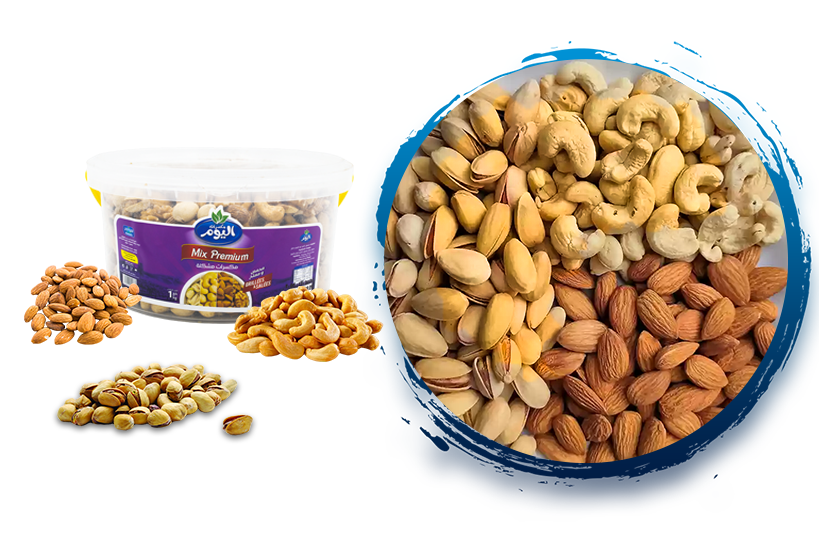
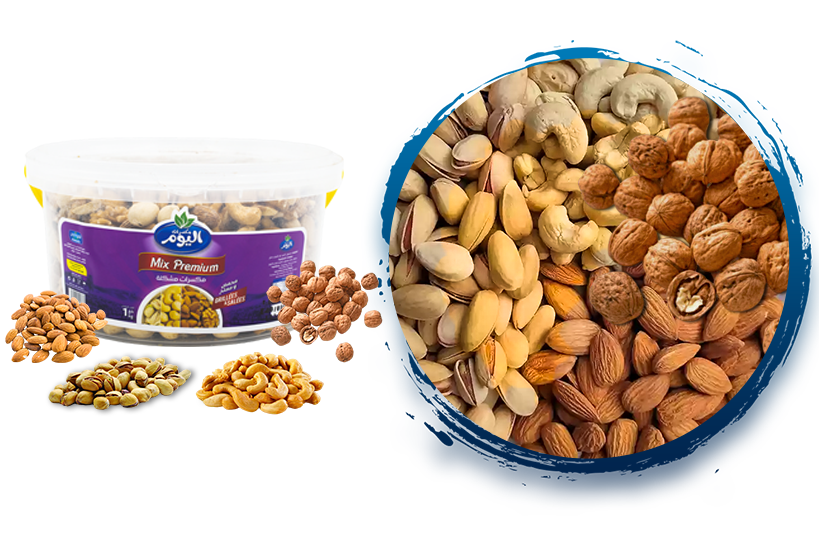
update

diff --git a/resources/views/ar/our_brand_alyoum.blade.php b/resources/views/ar/our_brand_alyoum.blade.php
@@ -162,7 +162,7 @@
                             <div class="brandInner paraFont ">
                                 <h2 class="text-end"><span class="fs7">مزیج</span> <span class="fs8"> الیوم الممیز </span> </h2>
                                 <p class="text-white text-end" style="width: 100%">
-                                    مزیج الیوم الممیز یجمع أفضل ما لدینا من المكسرات – الفستق، اللوز، الفول السوداني،
+                                    مزیج الیوم الممیز یجمع أفضل ما لدینا من المكسرات – الفستق، الجوز المقشر، اللوز، الفول السوداني،
                                     والكاجو – في مزیج مثالي، متوفر بكمیات كبیرة. ھذا المزیج الفاخر مثالي للمطاعم،
                                     الفنادق، والفعالیات التي تحتاج إلى وجبات خفیفة عالیة الجودة. مزیج الیوم الممیز یضمن
                                     تنوعًا غذائيًا ونكھة لذیذة، مما یوفر الخیار الأمثل للطعم والراحة للاحتیاجات

diff --git a/resources/views/en/our_brand_alyoum.blade.php b/resources/views/en/our_brand_alyoum.blade.php
@@ -175,7 +175,7 @@
                                 <h2><span class="fs7">Alyoum</span> <span class="fs8">Mix Premium</span> </h2>
                                 <p class="text-white">
                                     <strong>Alyoum Mix Premium</strong> combines the best of our nuts — pistachios,
-                                    almonds, peanuts, and
+                                    almonds,shelled walnuts, peanuts, and
                                     cashews — in a perfect blend, all available in bulk packaging. This premium mix is
                                     ideal for
                                     restaurants, hotels, and events where top-quality snacks are essential. Alyoum Mix

diff --git a/resources/views/fr/our_brand_alyoum.blade.php b/resources/views/fr/our_brand_alyoum.blade.php
@@ -178,7 +178,7 @@
                                 <h2><span class="fs7">Alyoum</span> <span class="fs8">Mix Premium</span> </h2>
                                 <p class="text-white">
                                     <strong>Alyoum Mix Premium</strong> combine le meilleur de nos noix — pistaches,
-                                    amandes, cacahuètes
+                                    amandes, noix décortiquées, cacahuètes
                                     et noix de
                                     cajou — dans un mélange parfait, le tout disponible en emballage en vrac. Ce mélange
                                     premium est
